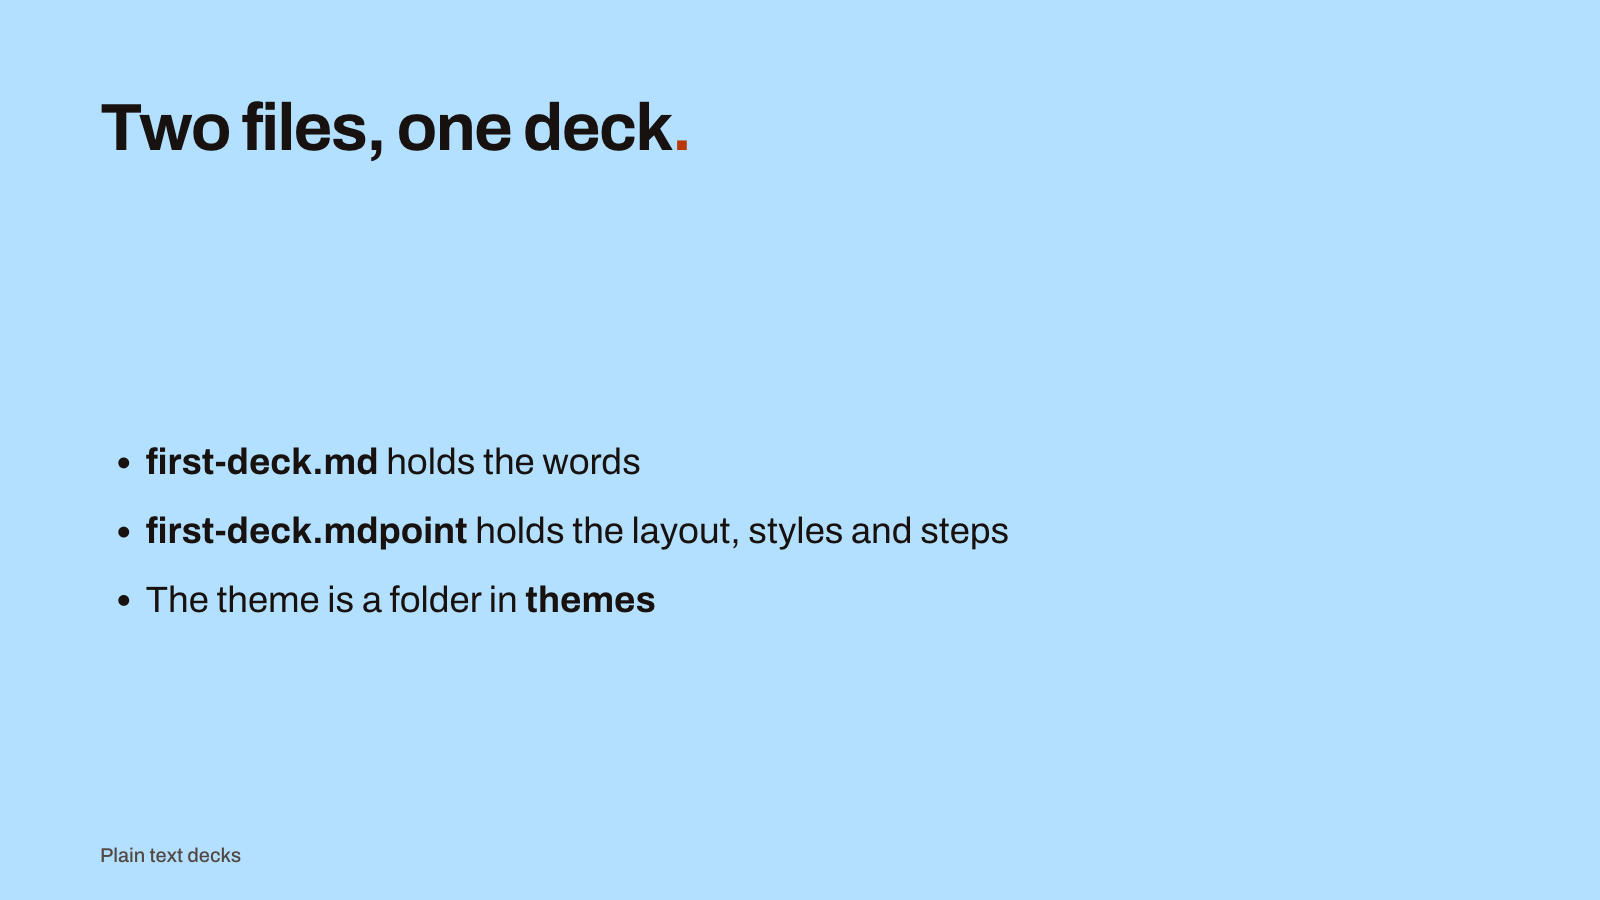
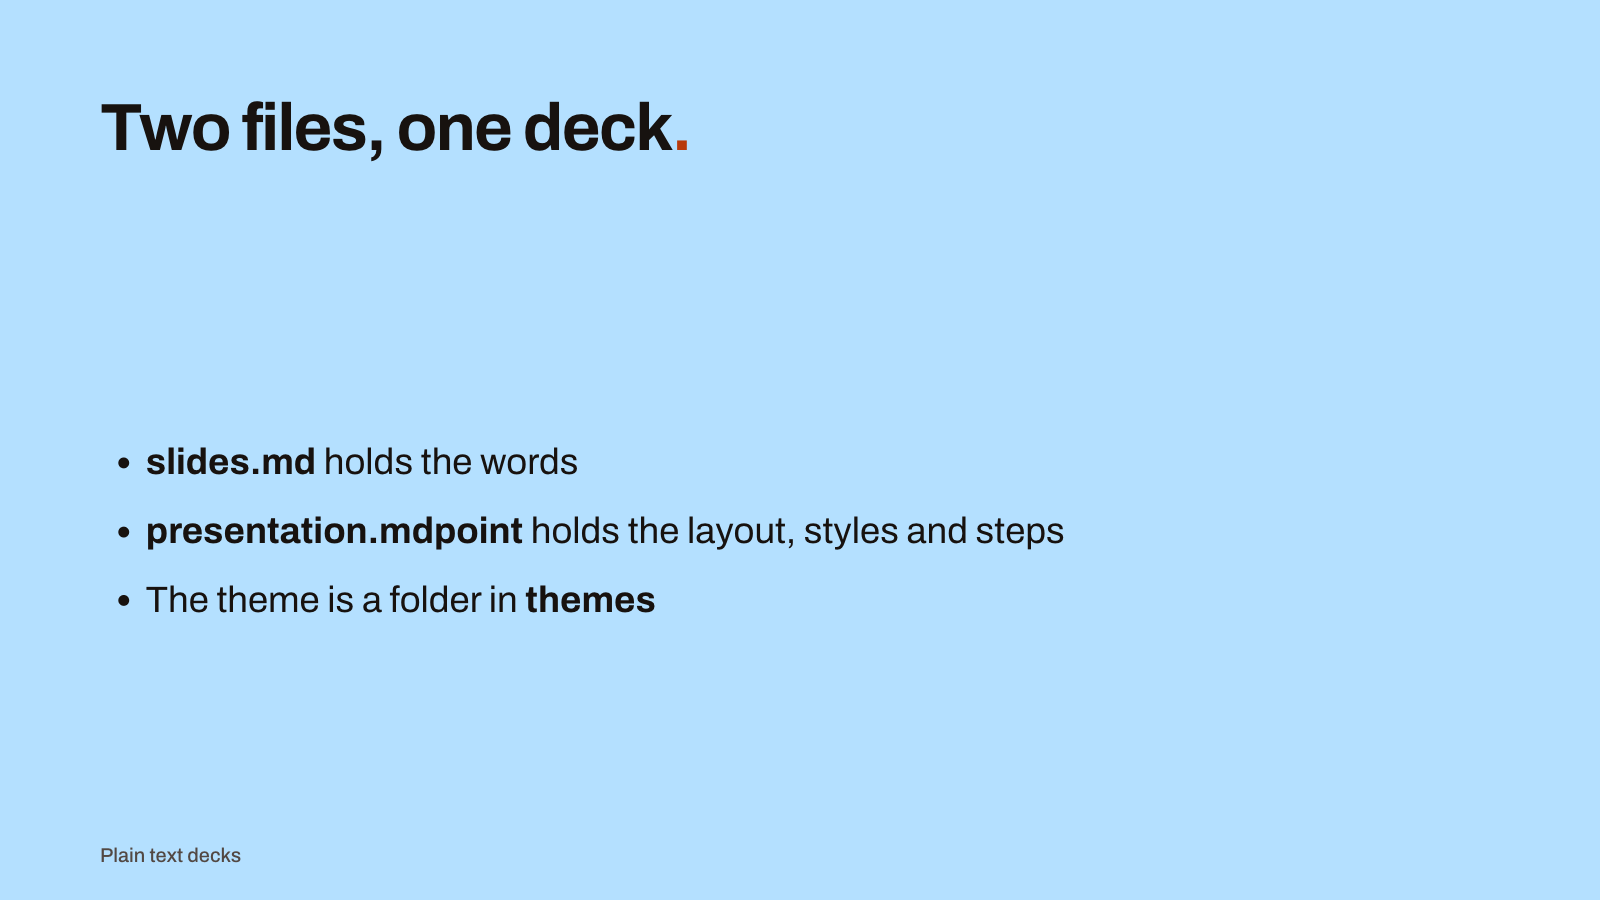
Publish from MarkdownPoint 3bdd19e0

Changed region(s): [[0.0938, 0.56, 0.6562, 0.6222], [0.0938, 0.4978, 0.4062, 0.5289]]

diff --git a/reference/v1.md b/reference/v1.md
@@ -2,7 +2,7 @@
 
 This reference lists every key in the files and what it does.
 
-A presentation is a folder with two files at its root. One ends in .mdpoint and its name is the presentation's, such as `Quarterly review/Quarterly review.mdpoint`. It holds the presentation's theme, slides, and settings as JSON. The other is `slides.md`. It holds the sections, the slides' order and text, and the speaker notes. A folder holds only one .mdpoint file. Renaming it renames the presentation. The folder's name can be anything.
+A presentation is a folder with two files at its root: `presentation.mdpoint` and `slides.md`. The names are fixed. Their case doesn't matter. `presentation.mdpoint` holds the presentation's theme, slides, and settings as JSON. `slides.md` holds the sections, the slides' order and text, and the speaker notes. The folder's name is the presentation's. Renaming the folder renames the presentation. Another .mdpoint file at the root, or another .md file whose name starts with the word slides, such as `slides 2.md` or a sync service's conflicted copy, stops the presentation from opening. MarkdownPoint names those files. The presentation doesn't open until one of each is left, under its fixed name. The presentation's themes are under themes/. Its other files are under media/ and generated/, as described below. Anything else in the folder is the author's own. MarkdownPoint never copies it.
 
 Each key belongs to one category:
 
@@ -13,7 +13,7 @@ Each key belongs to one category:
 
 An id is a lowercase letter, then lowercase letters and digits with single hyphens between them, such as title-card: `^(?:[a-z](?:[a-z0-9]|-(?!-))*[a-z0-9]|[a-z])$`. Slides and compositions share one set of ids. A document's id, a save stamp, and a theme's id in its master are lowercase UUIDs: `^[0-9a-f]{8}-[0-9a-f]{4}-[0-9a-f]{4}-[0-9a-f]{4}-[0-9a-f]{12}$`. A theme's key, the name of its folder in themes, is an id that every supported system can hold as a folder name. A name a theme gives is spelled as an id: a scheme, a color role, a brand color, a text style, a choice control's option, and a property a binding names. A layout's key is the name of its file: an id other than master and manifest that every supported system can hold as a file name. A font family is a letter or a digit in any script, then letters, digits, spaces, dots, underscores, and hyphens: `^[\p{L}\p{N}][\p{L}\p{N} ._-]*$`.
 
-A file path is relative to the presentation's or the theme's folder, with / between names. A name isn't empty, `.`, or `..`, and doesn't start with a dot. It holds no backslash, <, >, :, ", |, ?, *, #, or control character, and doesn't end in a space or a dot. CON, PRN, AUX, NUL, COM1 to COM9, LPT1 to LPT9, COM¹ to COM³, and LPT¹ to LPT³ name no file, in any case and with any extension. A presentation's file is under media/ or generated/, other than a .json file under generated/, which records how an image was made. The author's files go under media/. MarkdownPoint writes what it makes under generated/: images made with AI, and 3D text models. The record names the file under generated/ that the image was first written to. It also names the SHA-256 digest of the image's bytes. Any PNG directly under generated/, or anywhere under media/, with those bytes is that image. A renamed or moved image keeps its record. A theme's file is anywhere in its folder but manifest.json, previews, and example at its root. An image's file ends in .png, .jpg, .jpeg, .gif, .webp, .svg, .avif, or .bmp. A video's ends in .mp4, .m4v, .mov, .webm, or .ogv. A sound's ends in .mp3, .m4a, .wav, .ogg, or .flac. A model's ends in .glb and holds binary glTF 2.0. An embedded font's ends in .eot. The case of an ending doesn't matter.
+A file path is relative to the presentation's or the theme's folder, with / between names. A name isn't empty, `.`, or `..`, and doesn't start with a dot. It holds no backslash, <, >, :, ", |, ?, *, #, or control character, and doesn't end in a space or a dot. CON, PRN, AUX, NUL, COM1 to COM9, LPT1 to LPT9, COM¹ to COM³, and LPT¹ to LPT³ name no file, in any case and with any extension. A presentation's file is under media/ or generated/, other than a .json file under generated/, which records how an image was made. The author's files go under media/. MarkdownPoint writes what it makes under generated/: images made with AI, and 3D text models. The record names the file under generated/ that the image was first written to. It also names the SHA-256 digest of the image's bytes. Any PNG directly under generated/, or anywhere under media/, with those bytes is that image. A renamed or moved image keeps its record. A theme's file is anywhere in its folder but manifest.json, previews, and example at its root. An image's file ends in .png, .jpg, .jpeg, .gif, .webp, .svg, .avif, or .bmp. A video's ends in .mp4, .m4v, .mov, .webm, or .ogv. A sound's ends in .mp3, .m4a, .wav, .ogg, or .flac. A model's ends in .glb and holds binary glTF 2.0. An embedded font's ends in .eot. The case of an ending doesn't matter. A file reached through a symbolic link or an alias is never one of the presentation's files. Copy the file itself into the folder.
 
 A link is an http or https URL with a host, a mailto: or tel: address, or slide: and a slide's id. It holds no spaces or control characters, and a URL holds no backslash. A link to anything else, or to a slide that isn't there, is kept and does nothing.
 

diff --git a/README.md b/README.md
@@ -27,15 +27,16 @@ Its layout, colors and type come from the .mdpoint file and the theme. The whole
 ## A presentation is a folder
 
 ```
-my-talk/
-  slides.md            the text: slides, tables, speaker notes, slide order and sections
-  My talk.mdpoint      everything else: objects, their positions and styles, steps and transitions.
-                       Its name is the presentation's.
-  media/               images, videos, sounds and models
-  generated/           what MarkdownPoint makes: images made with AI, and 3D text models. A record beside each image says how it was made.
-  themes/<key>/        a theme: master.json, a JSON file per layout, and its own images and fonts.
-                       The .mdpoint file names the one in use. Changing the theme keeps the earlier ones.
+My talk/
+  slides.md              the text: slides, tables, speaker notes, slide order and sections
+  presentation.mdpoint   everything else: objects, their positions and styles, steps and transitions
+  media/                 images, videos, sounds and models
+  generated/             what MarkdownPoint makes: images made with AI, and 3D text models. A record beside each image says how it was made.
+  themes/<key>/          a theme: master.json, a JSON file per layout, and its own images and fonts.
+                         The .mdpoint file names the one in use. Changing the theme keeps the earlier ones.
 ```
+
+The folder's name is the presentation's. Rename the folder to rename the presentation. The two files are always named `slides.md` and `presentation.mdpoint`. Capital letters don't matter. A second copy of either, such as `slides 2.md` or a sync service's conflicted copy, stops the presentation from opening. MarkdownPoint tells you which files they are. Keep one of each, named as above, and the presentation opens. Anything else in the folder is yours. MarkdownPoint never copies it. A file reached through a symbolic link or an alias is never one of the presentation's files. Copy the file itself into the folder.
 
 To start a presentation by hand, copy an example's whole folder. Its `themes` folder holds Basic. With MarkdownPoint running, `mdpoint create <folder>` makes a new presentation with Basic and opens it.
 

diff --git a/mdpoint-file.md b/mdpoint-file.md
@@ -1,6 +1,6 @@
 # The .mdpoint file
 
-The .mdpoint file has everything except the text: the theme, each slide's layout, the objects on it, their positions and styles, and the steps that animate them. Its name is the presentation's: `my-talk/My talk.mdpoint`. Rename it to rename the presentation.
+The .mdpoint file has everything except the text: the theme, each slide's layout, the objects on it, their positions and styles, and the steps that animate them. It's always named `presentation.mdpoint`. The presentation's name is its folder's. Rename the folder to rename the presentation.
 
 ![The shapes slide, as MarkdownPoint draws it](images/objects-shapes.png)
 

diff --git a/examples/first-deck/slides.md b/examples/first-deck/slides.md
@@ -27,8 +27,8 @@ Speaker notes go here. Only the presenter sees them.
 Two files, one deck==.==
 
 <!-- text: body -->
-- **first-deck.md** holds the words
-- **first-deck.mdpoint** holds the layout, styles and steps
+- **slides.md** holds the words
+- **presentation.mdpoint** holds the layout, styles and steps
 - The theme is a folder in **themes**
 
 <!-- section: finish -->

diff --git a/md-file.md b/md-file.md
@@ -34,8 +34,8 @@ Speaker notes go here. Only the presenter sees them.
 Two files, one deck==.==
 
 <!-- text: body -->
-- **first-deck.md** holds the words
-- **first-deck.mdpoint** holds the layout, styles and steps
+- **slides.md** holds the words
+- **presentation.mdpoint** holds the layout, styles and steps
 - The theme is a folder in **themes**
 
 <!-- section: finish -->
